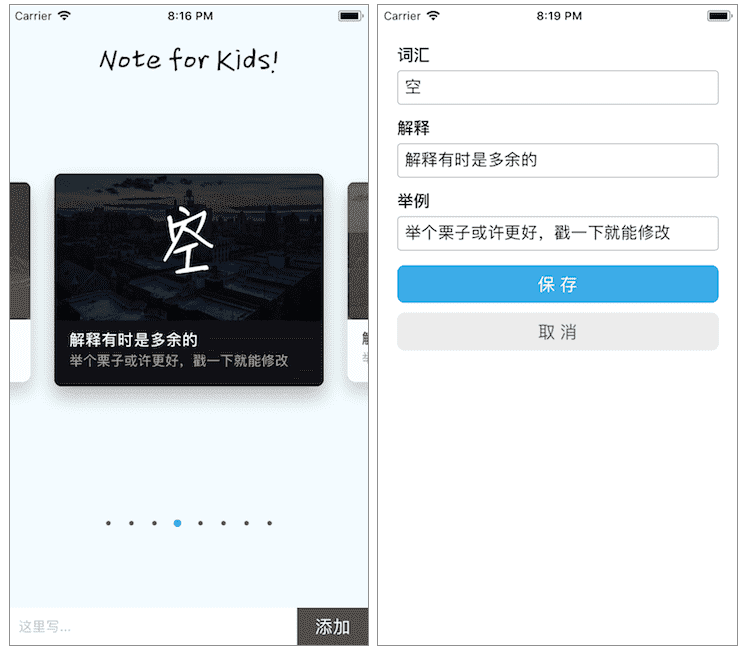
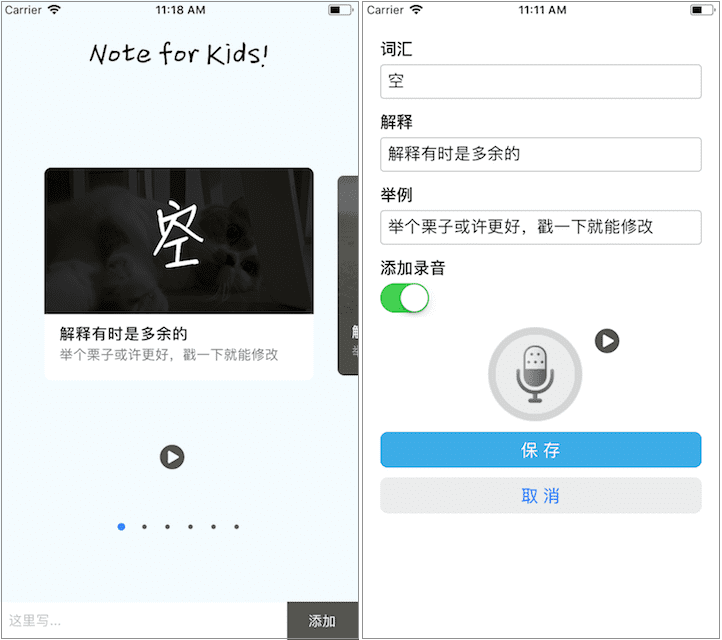
add splash for android...

diff --git a/app/components/ModalForm.js b/app/components/ModalForm.js
@@ -81,9 +81,11 @@ export default class ModalForm extends Component {
       AudioQuality: "Low",
       AudioEncoding: "aac",
       AudioEncodingBitRate: 32000
-    }).catch(err => {
-      console.error(err);
-    });
+    })
+    // FIXME, error in ios for this catch @2018/06/13
+    // .catch(() => {
+    //   console.error('prepare record path ERROR!');
+    // });
     return tempAudioPath;
   }
 
@@ -352,7 +354,7 @@ export default class ModalForm extends Component {
             <Button
               onPress={this.saveFormData}
               title="保 存"
-              color="#841584"
+              color="#FFFFFF"
             />
           </View>
           <View style={styles.btnBackgroundGray}>

diff --git a/app/App.js b/app/App.js
@@ -28,6 +28,9 @@ import { connect } from 'react-redux'
 import { actionCreators } from './Redux'
 import RecordHelper from './Helper';
 
+import SplashScreen from 'react-native-splash-screen'
+
+
 export class App extends Component {
 
   constructor(props) {
@@ -46,6 +49,8 @@ export class App extends Component {
   }
 
   componentDidMount() {
+    SplashScreen.hide();
+    
     Keyboard.addListener('keyboardDidShow', this._keyboardDidShow);
     Keyboard.addListener('keyboardDidHide', this._keyboardDidHide);
 
